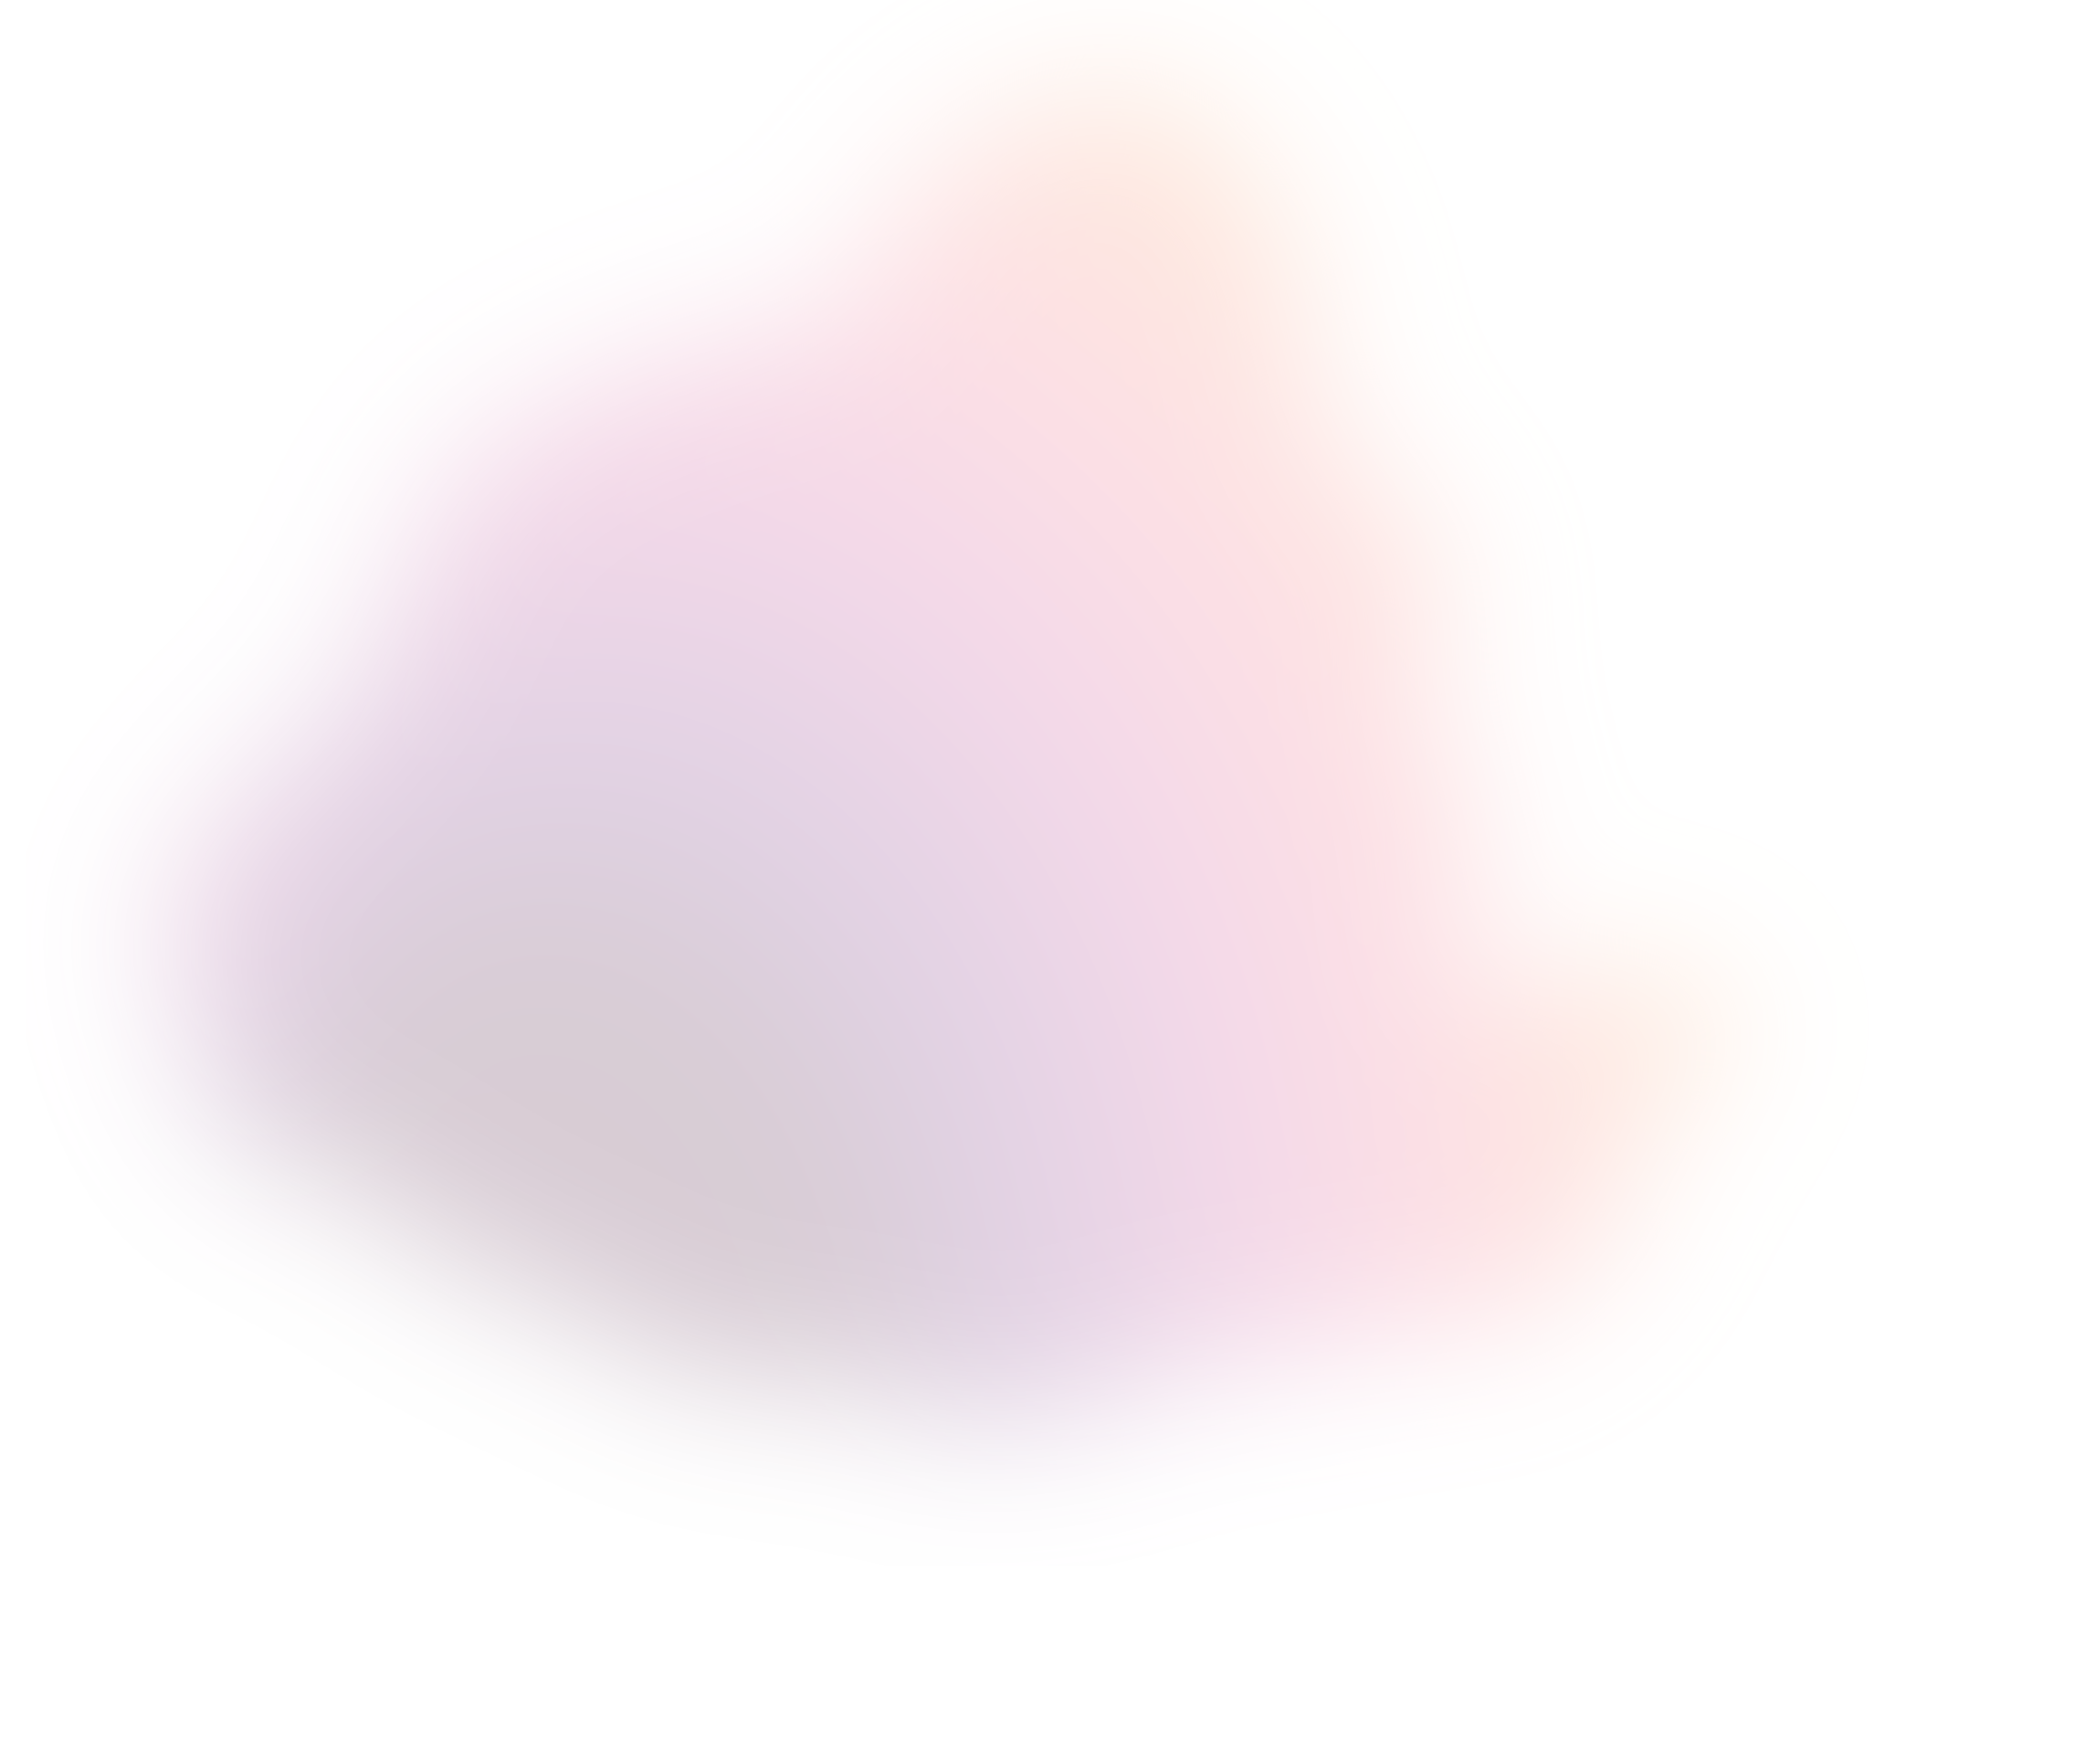
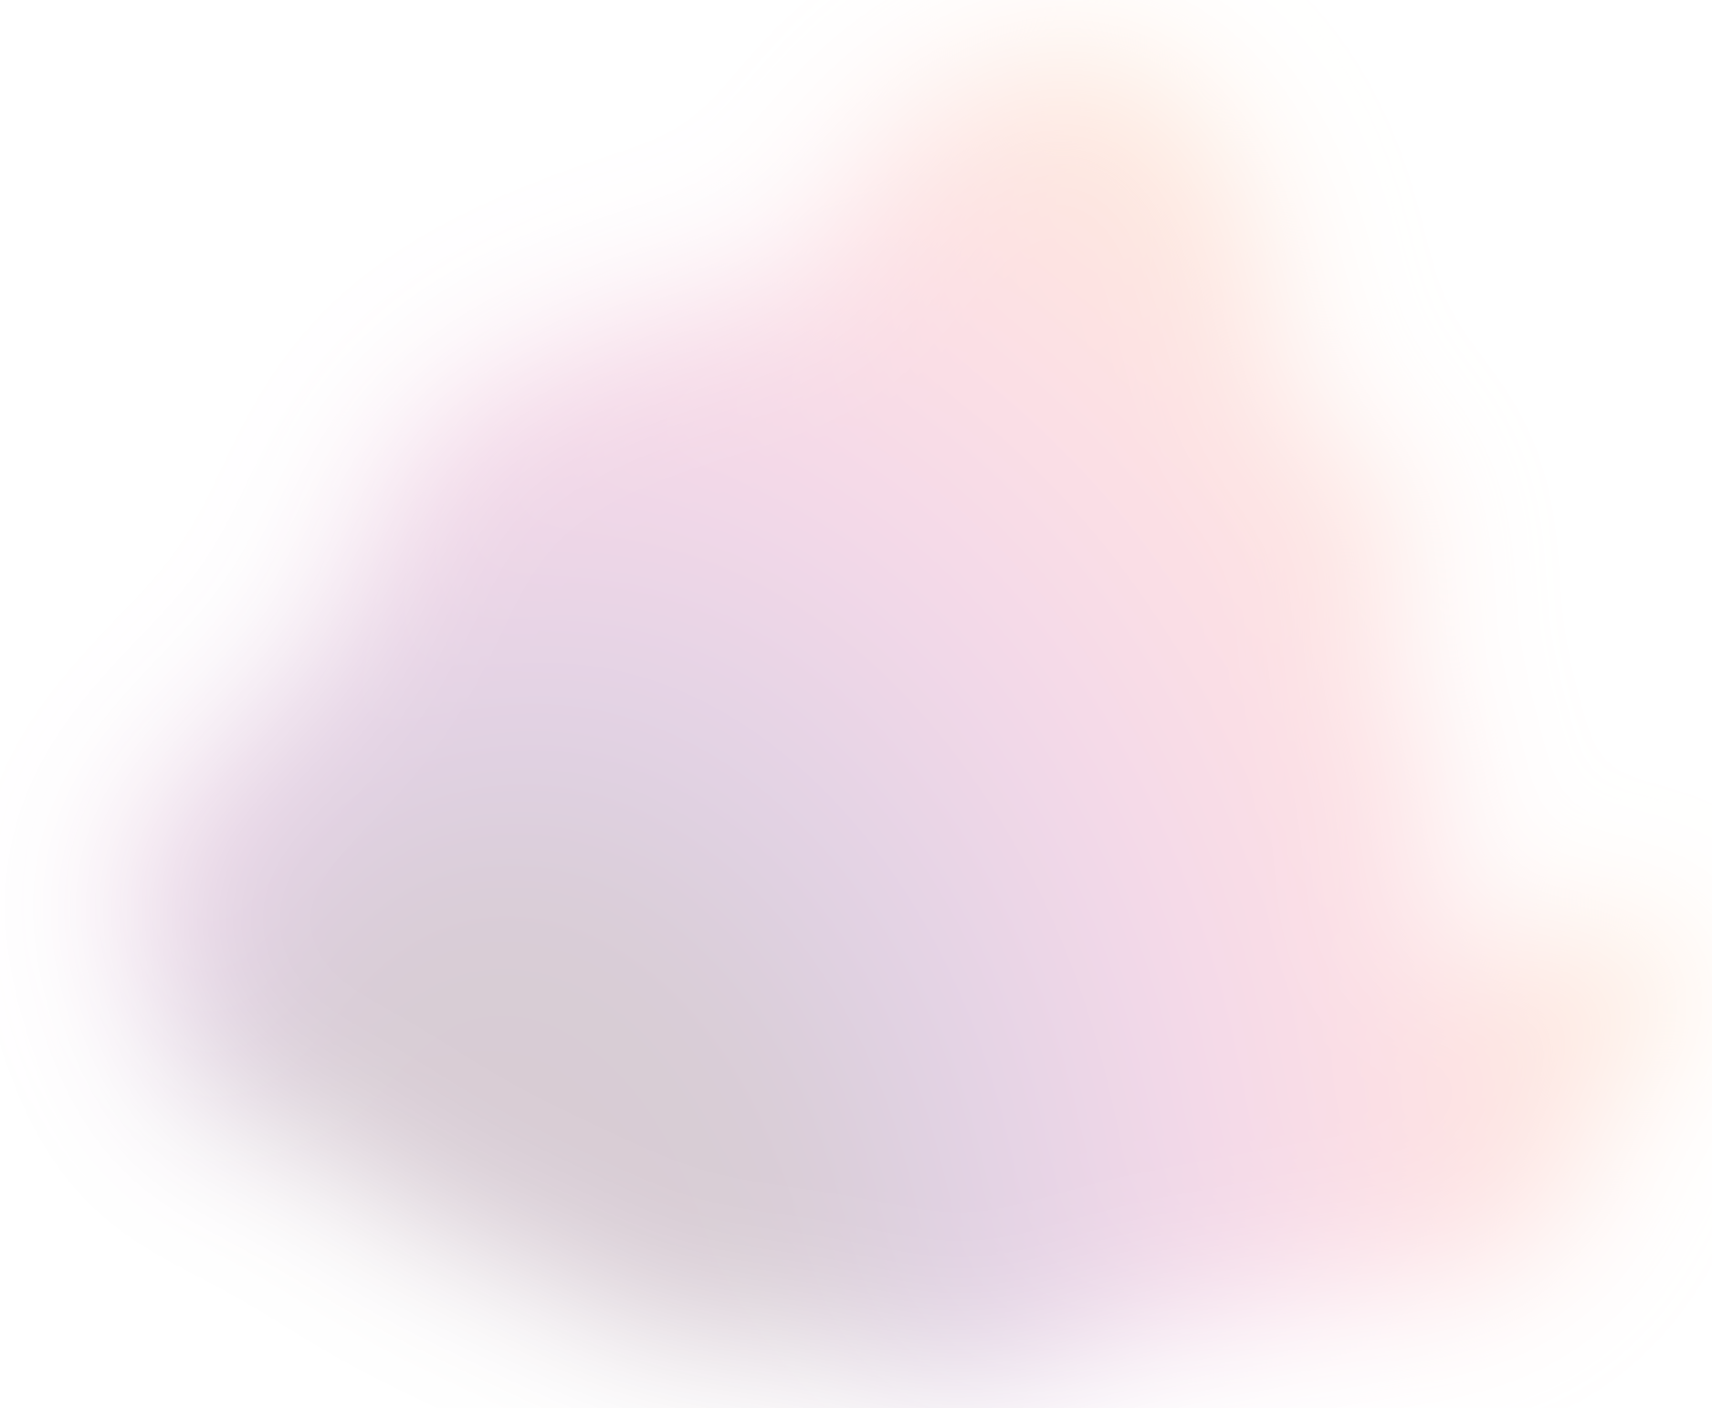
layout na mobilu

Changed region(s): [[0.0928, 0.6848, 0.928, 0.9961], [0.7115, 0.3424, 0.8043, 0.5292], [0.6496, 0.0934, 0.7115, 0.249]]

diff --git a/scss/sections/_hero.scss b/scss/sections/_hero.scss
@@ -7,8 +7,9 @@
 .hero {
   min-height: calc(100dvh - 70px);
   display: flex;
-  align-items: center;
+  align-items: flex-start;
   justify-content: center;
+  padding-top: 6vh;
 }
 
 .hero_content {
@@ -17,7 +18,7 @@
   align-items: center;
 }
 
-.hero_TextButton {
+.hero_Text {
   .text {
     display: flex;
     flex-direction: column;
@@ -61,33 +62,42 @@ h1 {
 }
 
 .hero_motiv {
-  // display: flex;
-  max-height: 245px;
-  width: auto;
-  margin: 0 auto;
-}
-
-.picture {
   position: relative;
-  isolation: isolate; // vlastní stacking context
-  display: block;
-  width: 100%;
-  aspect-ratio: 1/1;
-  min-height: 300px;
-  background-color: red;
-  filter: drop-shadow(-10px 0px 10px c.$DarkShadow);
-  background: url("/assets/pictures/profilovka.png") left center / contain
-    no-repeat;
+  isolation: isolate;
+  height: 225px;
+  aspect-ratio: 1 / 1;
 
-  .wireframe {
+  .person {
     position: absolute;
-    inset: 0px;
-    background: url("../assets/pictures/wireframe.png") center / contain
-      no-repeat;
-    opacity: 0.9;
     z-index: 1;
-    animation: lightPulse 3s ease-in-out infinite;
-    will-change: transform;
+    inset: 0px;
+    .person_wrapper {
+      position: absolute;
+      inset: 0px;
+      pointer-events: none;
+      filter: drop-shadow(-10px 0px 10px c.$DarkShadow);
+      background: url("/assets/pictures/profilovka.png") left center / contain
+        no-repeat;
+      transform: scale(1.2);
+      .wireframe {
+        position: absolute;
+        inset: 0px;
+        background: url("../assets/pictures/wireframe.png") center / contain
+          no-repeat;
+        opacity: 0.9;
+        z-index: 2;
+        animation: wireGlow 3s ease-in-out infinite;
+        will-change: transform;
+      }
+
+      .filtr {
+        position: absolute;
+        inset: 0px;
+        background: url("/assets/pictures/filtr.png") center / contain no-repeat;
+        z-index: 3;
+        opacity: 0.6;
+      }
+    }
   }
 
   .prstenec {
@@ -95,45 +105,37 @@ h1 {
     inset: 0px;
     background: url("../assets/pictures/prstenec.png") center / contain
       no-repeat;
-    opacity: 0.8;
-    z-index: 2;
-    transform-origin: center;
+    opacity: 1;
+    z-index: 4;
     animation: gentleFloat 8s ease-in-out infinite;
     will-change: transform;
   }
 
   .mlha {
     position: absolute;
-    inset: -5px;
+    inset: -30px;
     background: url("/assets/pictures/mlha.png") center / contain no-repeat;
-    z-index: 3;
-    opacity: 0.8;
-    animation: lightSway 9s ease-in-out infinite;
+    z-index: 5;
+    opacity: 1;
+    animation: lightSway 15s ease-in-out infinite;
     will-change: transform;
-  }
-
-  .filtr {
-    position: absolute;
-    inset: 0px;
-    background: url("/assets/pictures/filtr.png") center / contain no-repeat;
-    z-index: 4;
-    opacity: 0.6;
   }
 }
 
 .button {
   position: relative;
   width: 180px;
+  height: 55px;
   display: flex;
   align-items: center;
   justify-content: space-evenly;
   margin-top: 24px;
-  border: none;
+  border: 1px solid transparent;
   background: none;
   @include m.heroText(15px, c.$SmallTextColor);
   letter-spacing: 0.1em;
   font-weight: 600;
-  //  color: #aaa; /* výchozí barva */
+  // color: #aaa; /* výchozí barva */
   // animation: glow 4s ease-in-out infinite;
   // will-change: color, text-shadow;
 
@@ -153,6 +155,23 @@ h1 {
   }
 }
 
+@keyframes wireGlow {
+  0% {
+    opacity: 0.4;
+    filter: brightness(0.8);
+  }
+
+  50% {
+    opacity: 1;
+    filter: brightness(1.4);
+  }
+
+  100% {
+    opacity: 0.4;
+    filter: brightness(0.8);
+  }
+}
+
 // @keyframes glow {
 //   0% {
 //     color: #e6e5e5;
@@ -168,64 +187,88 @@ h1 {
 //   }
 // }
 
-@keyframes gradientMove {
-  0% {
-    background-position: 0% 0;
-  }
-  100% {
-    background-position: 200% 0;
-  }
-}
+// @keyframes lightPulse {
+//   0% {
+//     transform: scale(1);
+//     opacity: 0.4;
+//     filter: brightness(0.8);
+//   }
 
-@keyframes colorShift {
-  0% {
-    color: #f9f0cf;
-  }
-  50% {
-    color: #efdfa0;
-  }
-  100% {
-    color: #f9f0cf;
-  }
-}
+//   50% {
+//     transform: scale(1.05);
+//     opacity: 1;
+//     filter: brightness(1.3);
+//   }
+
+//   100% {
+//     transform: scale(1);
+//     opacity: 0.4;
+//     filter: brightness(0.8);
+//   }
+// }
+
+// @keyframes gradientMove {
+//   0% {
+//     background-position: 0% 0;
+//   }
+//   100% {
+//     background-position: 200% 0;
+//   }
+// }
+
+// @keyframes colorShift {
+//   0% {
+//     color: #f9f0cf;
+//   }
+//   50% {
+//     color: #efdfa0;
+//   }
+//   100% {
+//     color: #f9f0cf;
+//   }
+// }
 
 @keyframes lightSway {
   0% {
-    transform: translate(0, -40px);
+    transform: translate(0, -10px);
   }
   50% {
-    transform: translate(calc(0px + 2%), calc(-40px + 10px));
+    transform: translate(calc(2%));
   }
   100% {
-    transform: translate(0, -40px);
+    transform: translate(0, -10px);
   }
 }
 
 @keyframes gentleFloat {
   0% {
-    transform: translateY(0);
+    transform: translateY(30px);
   }
 
   50% {
-    transform: translateY(-6px);
+    transform: translateY(40px);
   }
 
   100% {
-    transform: translateY(0);
+    transform: translateY(30px);
   }
 }
 
 @media (min-width: b.$tabletBreakPoint) {
+  .hero {
+    padding-top: 10vh;
+  }
+
   .hero_content {
     display: grid;
     grid-template-columns: minmax(0, 1fr) minmax(0, 0.7fr);
-    align-items: center;
   }
 
-  .hero_TextButton {
+  .hero_Text {
     .text {
       align-items: start;
       max-width: 220px;
+      transform: translateX(-50px);
     }
   }
 

diff --git a/index.html b/index.html
@@ -104,20 +104,24 @@
       <section class="hero">
         <div class="hero_content">
           <div class="hero_motiv">
-            <div class="picture">
-              <div class="wireframe"></div>
-              <div class="prstenec"></div>
-              <div class="mlha"></div>
-              <div class="filtr"></div>
+            <div class="person">
+              <div class="person_wrapper">
+                <div class="wireframe"></div>
+                <div class="filtr"></div>
+              </div>
             </div>
+            <div class="prstenec"></div>
+            <div class="mlha"></div>
           </div>
-          <div class="hero_TextButton">
+          <div class="hero_Text">
             <div class="text">
               <h1>ZDEŇKA BEŤÁKOVÁ</h1>
               <p class="design_frontend">
                 UX/UI DESIGN <span class="dot">•</span> FRONT-END
               </p>
               <span class="design_a_kod">Mezi designem a kódem.</span>
+            </div>
+            <div>
               <a class="button" href="#"
                 >PROZKOUMAT<img
                   class="rocket"

diff --git a/scss/sections/_header.scss b/scss/sections/_header.scss
@@ -31,9 +31,9 @@
   font-size: 20px;
   color: white;
   background-color: c.$DecorationColor;
-  border-radius: 5px;
+  border-radius: 50%;
   box-shadow: 0px 0px 1px black;
-  padding: 5px;
+  padding: 7px;
 }
 
 .menu_button_checkbox {
